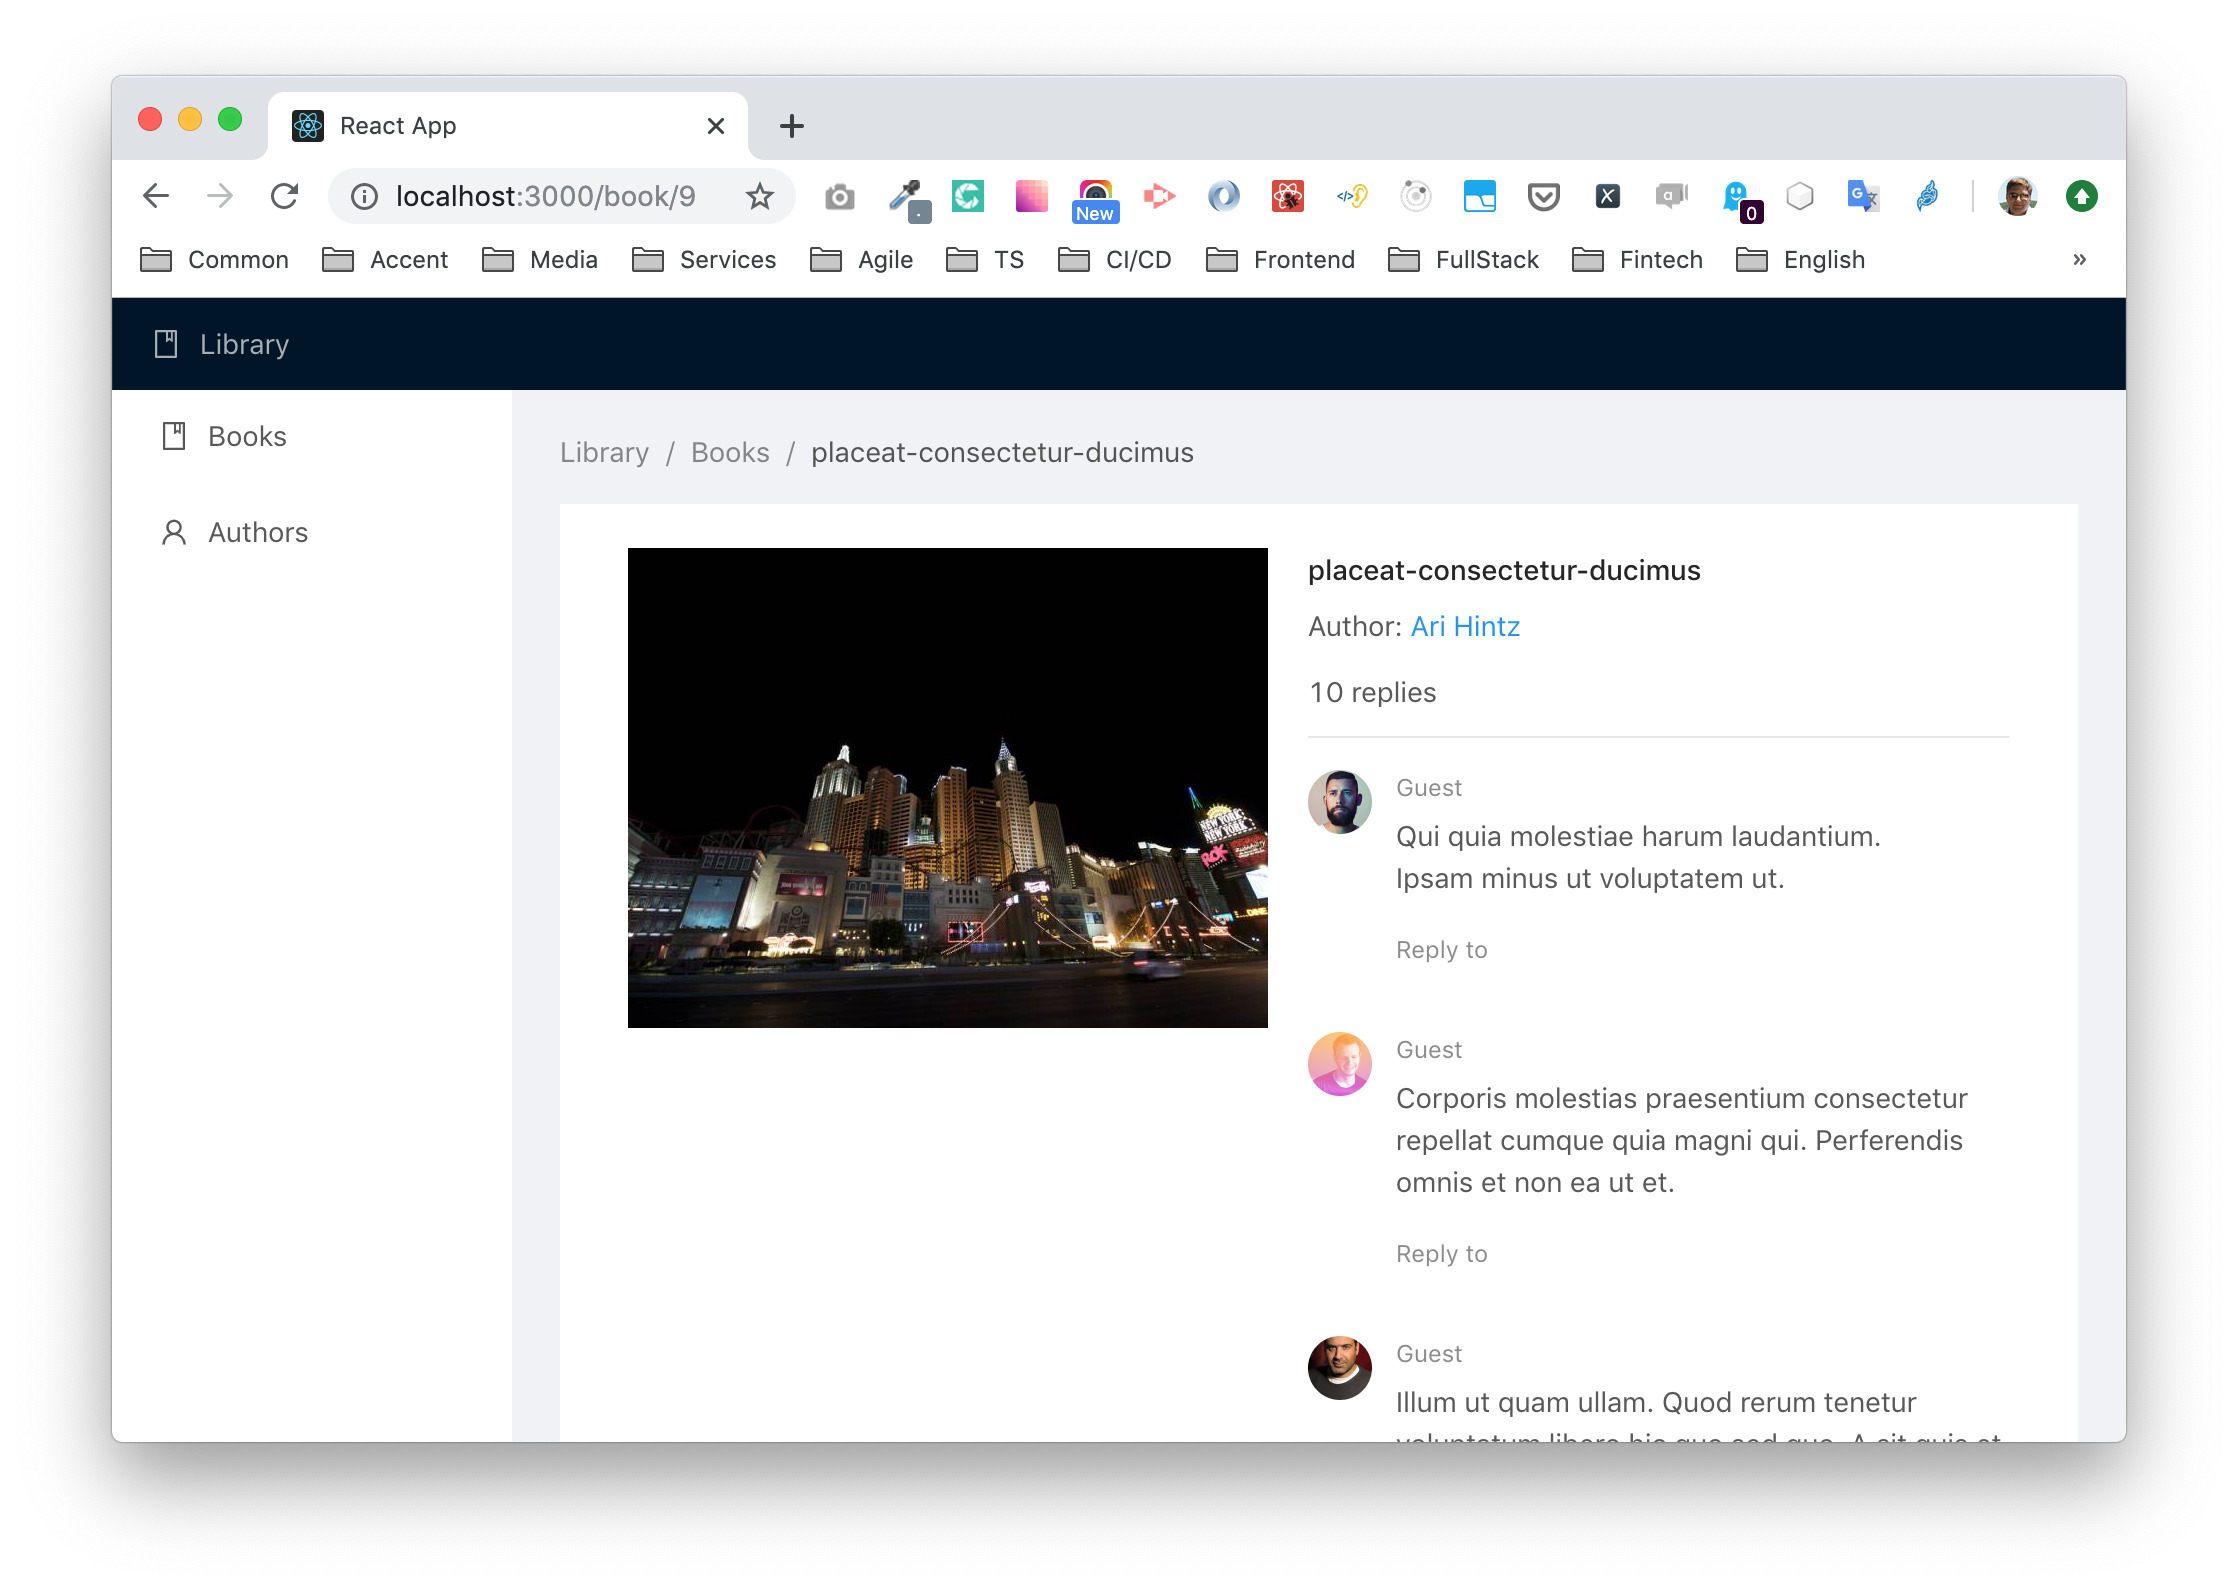
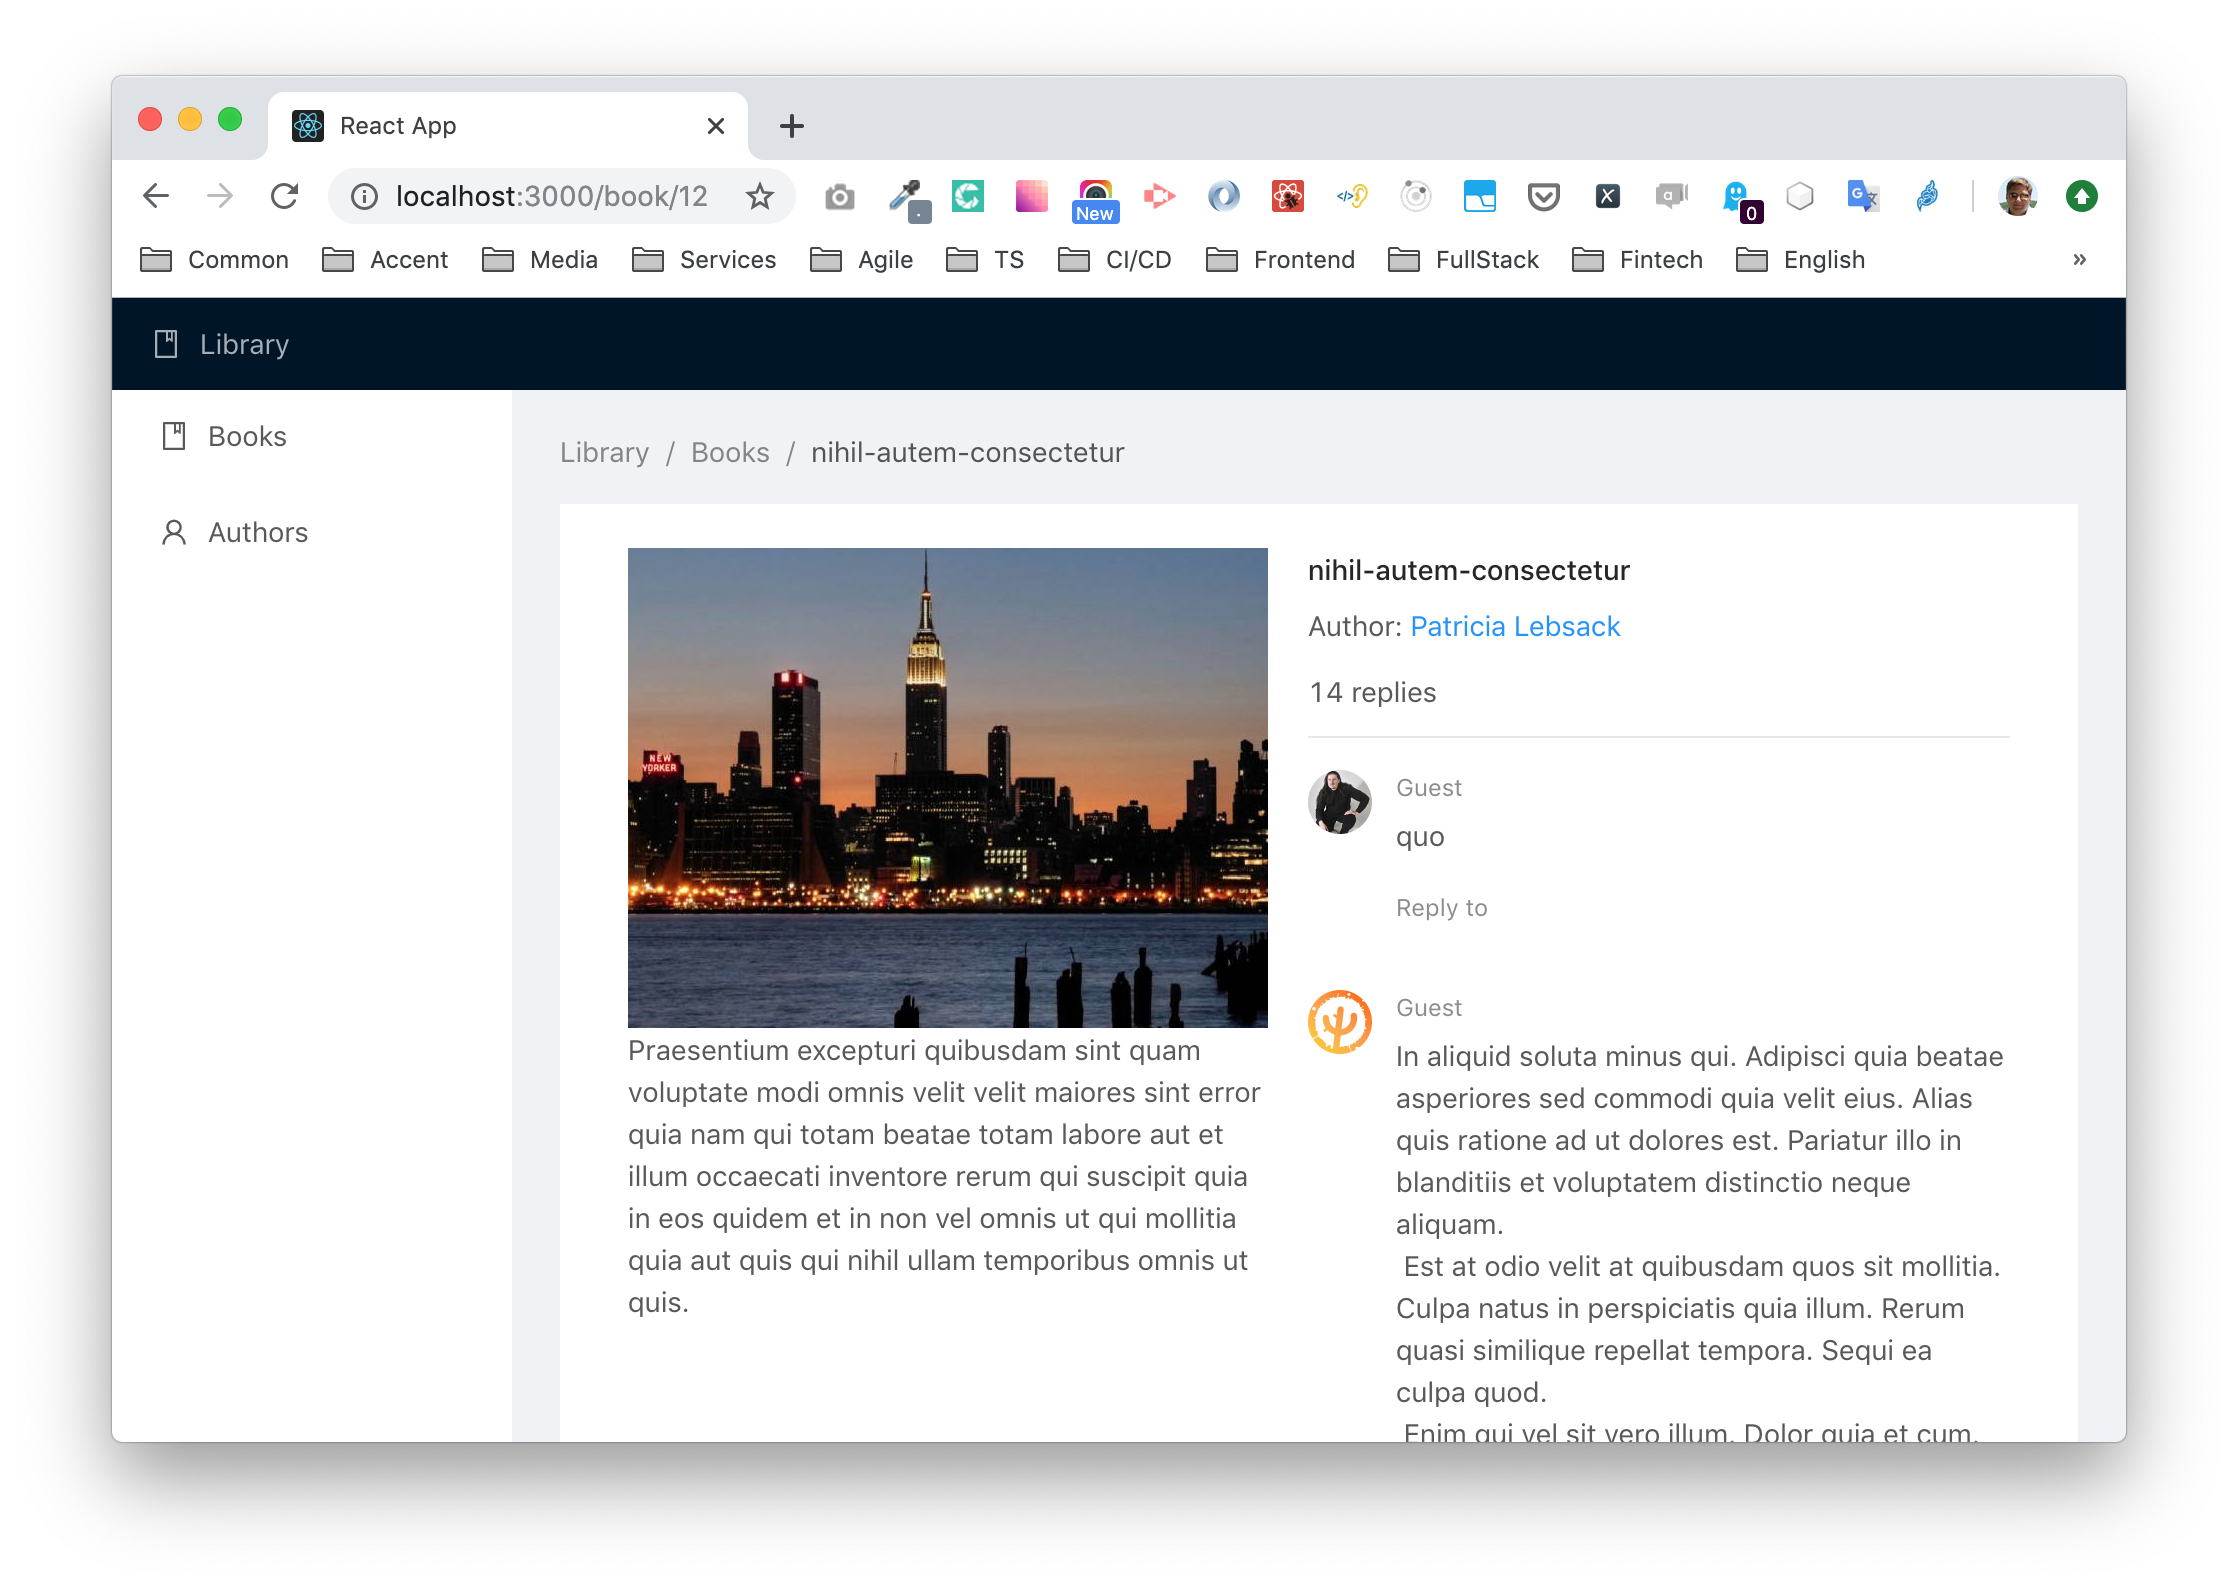
add description to the book card

Changed region(s): [[0.2775, 0.339, 0.8941, 0.9245], [0.6166, 0.5239, 0.8324, 0.6164], [0.37, 0.2774, 0.5241, 0.3082]]

diff --git a/packages/apo-web/src/BookCard/BookCard.tsx b/packages/apo-web/src/BookCard/BookCard.tsx
@@ -5,10 +5,10 @@ import * as React from 'react'
 import { BookVars, GET_BOOK, IBookData } from '../queries/book'
 
 import Col from 'antd/es/col'
+import { CommentList } from '../CommentList/CommentList'
+import { Link } from 'react-router-dom'
 import Row from 'antd/es/row'
 import { useQuery } from '@apollo/react-hooks'
-import { Link } from 'react-router-dom'
-import { CommentList } from '../CommentList/CommentList'
 
 export interface IBookCardProps {
   className?: string
@@ -24,7 +24,7 @@ export const BookCard: React.FunctionComponent<IBookCardProps> = ({ children, ..
   if (!data) {
     return <div className="loading">Loading</div>
   }
-  const { author_id, title, img, author } = data.book
+  const { author_id, title, description, img, author } = data.book
 
   return (
     <Row>
@@ -32,6 +32,9 @@ export const BookCard: React.FunctionComponent<IBookCardProps> = ({ children, ..
         <div className="card">
           <div className="card--left-block">
             <img src={img} width="320" alt="" />
+            <div>
+              {description}
+            </div>
           </div>
           <div className="card--right-block">
             <h1>{title}</h1>

diff --git a/packages/apo-web/src/queries/book.ts b/packages/apo-web/src/queries/book.ts
@@ -29,6 +29,7 @@ export const GET_BOOK = gql`
       }
       author_id
       title
+      description
       img
     }
   }

diff --git a/packages/apo-web/src/BookCard/book.css b/packages/apo-web/src/BookCard/book.css
@@ -4,6 +4,7 @@
 }
 
 .card--left-block {
+  width: 320px;
 }
 
 .card--right-block {
